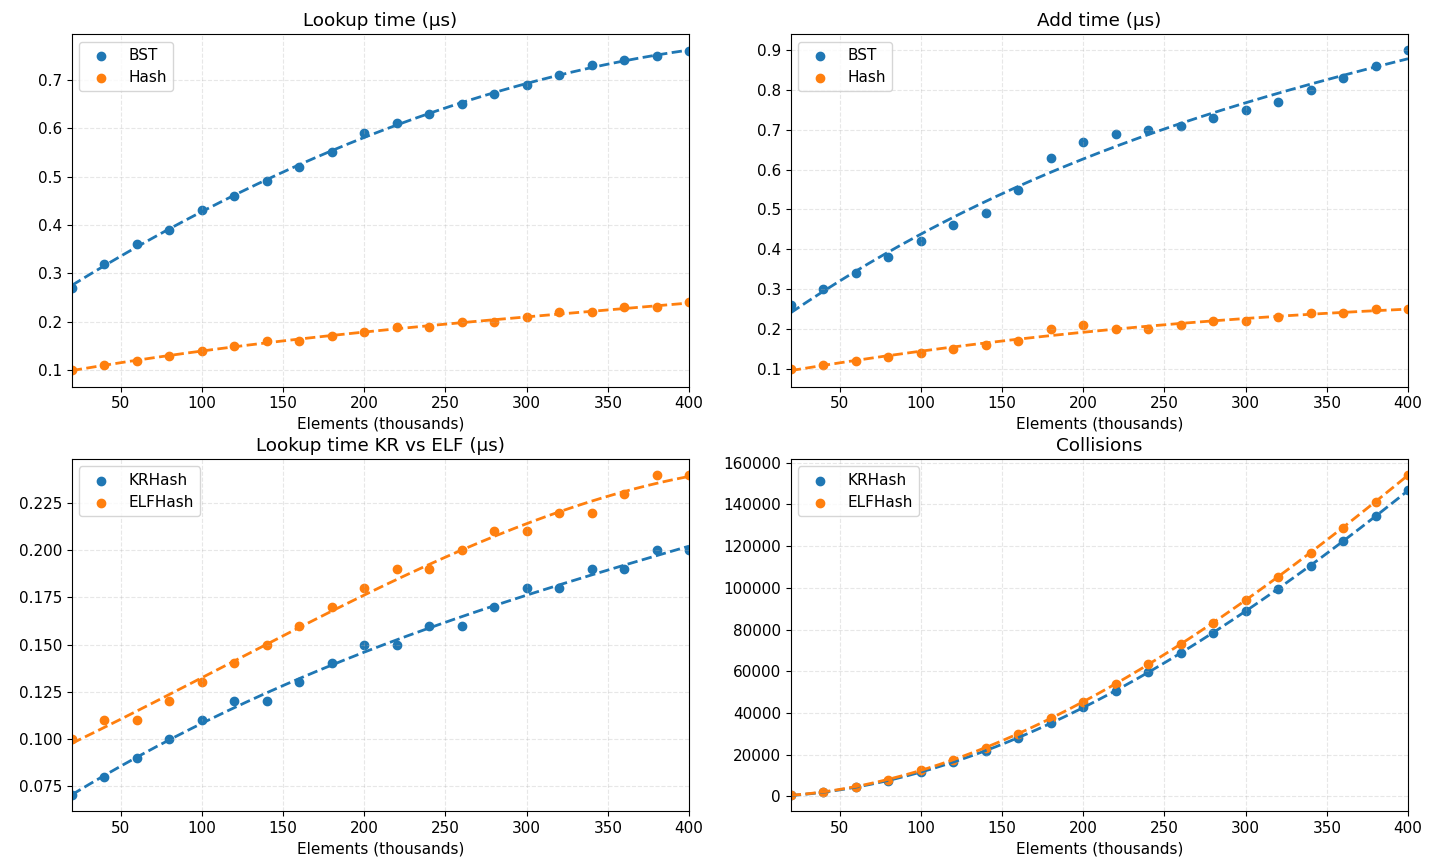
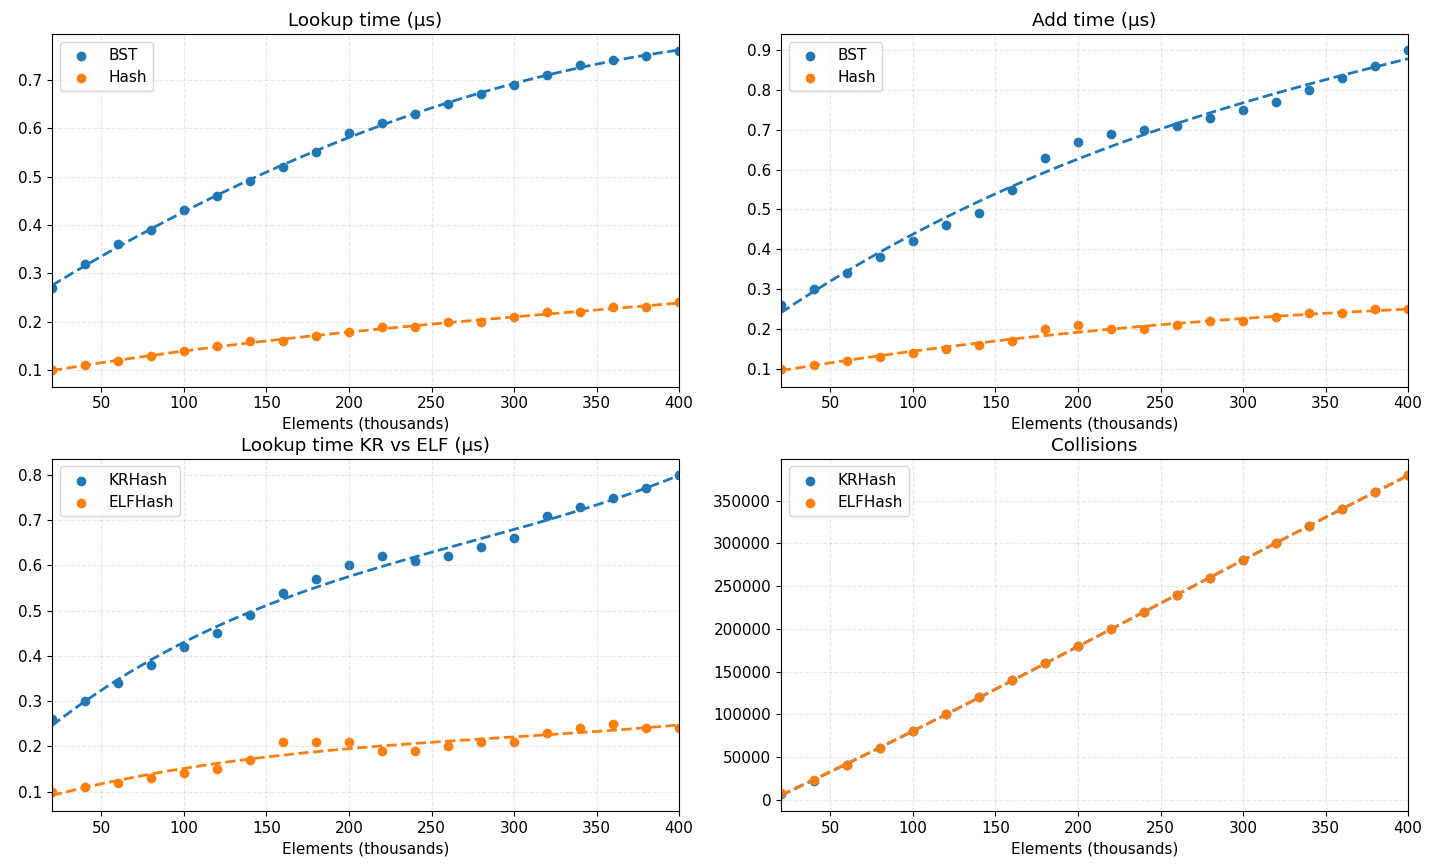
done

diff --git a/main.c b/main.c
@@ -178,18 +178,18 @@ void experiment6_collisions()
         current_n = n;
 
         double t_start = wtime();
-        for (int k = 0; k < 1; k++) {
+        for (int k = 0; k < 100000; k++) {
             char *key = words[rand() % n];
             dummy += (hashtab_lookup(ht_kr, key, KRHash) != NULL);
         }
-        double kr_time = (wtime() - t_start) / 1.0;
+        double kr_time = (wtime() - t_start) / 100000.0;
 
         t_start = wtime();
-        for (int k = 0; k < 1; k++) {
+        for (int k = 0; k < 100000; k++) {
             char *key = words[rand() % n];
             dummy += (hashtab_lookup(ht_elf, key, ELFHash) != NULL);
         }
-        double elf_time = (wtime() - t_start) / 1.0;
+        double elf_time = (wtime() - t_start) / 100000.0;
 
         int kr_col = hashtab_collisions(ht_kr);
         int elf_col = hashtab_collisions(ht_elf);
@@ -218,8 +218,8 @@ int main()
 
     printf("Успешно загружено %d слов.\n\n", count);
 
-    experiment1_bst_vs_hash();
-    experiment2_add_bst_vs_hash();
+    //experiment1_bst_vs_hash();
+    //experiment2_add_bst_vs_hash();
     experiment6_collisions();
 
     for (int i = 0; i < count; i++)
